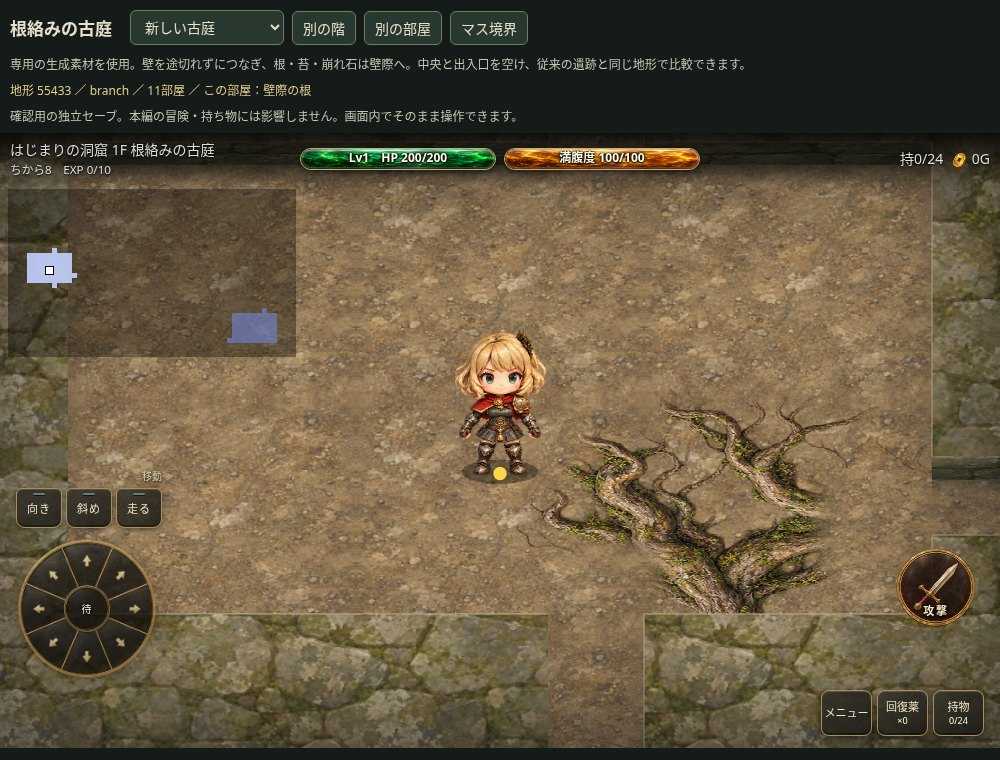
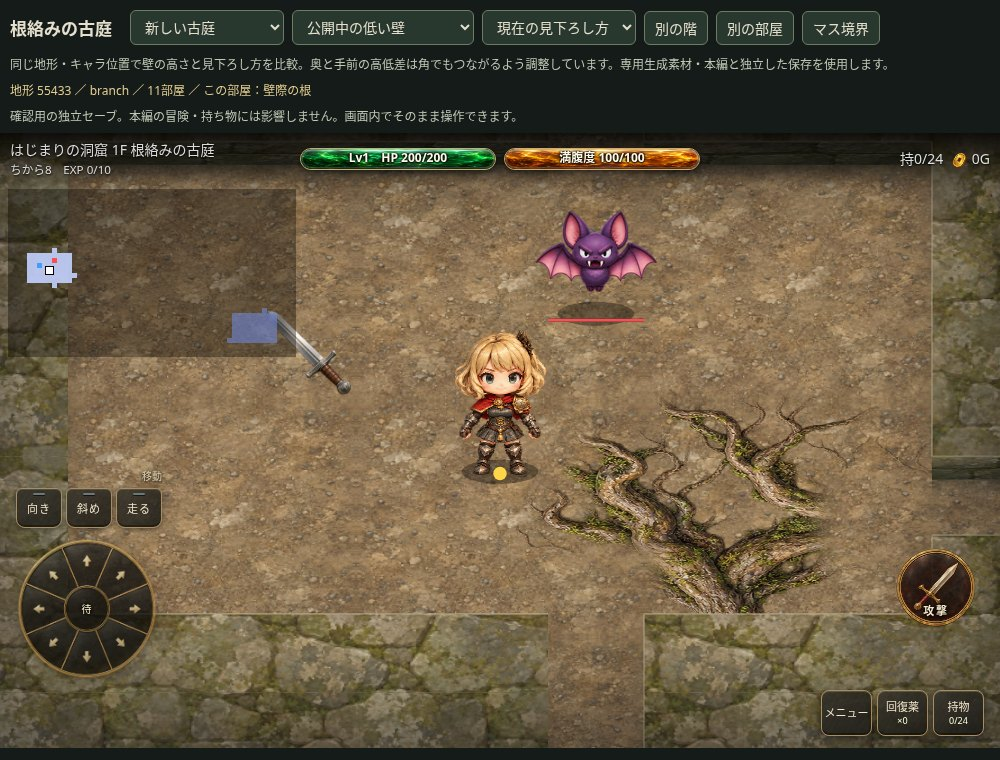
Add wall height and camera comparisons pending official reference review

diff --git a/assets/overgrown-garden.js b/assets/overgrown-garden.js
@@ -2,6 +2,19 @@
 (function(root){
  'use strict';
  const theme=DungeonGenerator.themes.find(t=>t.id==='overgrown-garden');
+ // Published view remains the default; study modes are selected in review only.
+ const view={mode:'low',pitch:.82};
+ const profiles={low:{back:.24,front:.24},tall:{back:.48,front:.48},cutaway:{back:.56,front:.16}};
+ function configureView(patch){
+  if(patch.mode!==undefined){if(!profiles[patch.mode])throw Error('unknown wall view');view.mode=patch.mode;}
+  if(patch.pitch!==undefined){if(![.72,.82,.9].includes(patch.pitch))throw Error('unknown ground projection');view.pitch=patch.pitch;}
+ }
+ function vertexHeight(map,x,y){
+  const p=profiles[view.mode],floor=(xx,yy)=>map[yy]?.[xx]!==undefined&&map[yy][xx]!==0;
+  // Shared world vertices keep the cutaway ramp continuous at corners.
+  return floor(x-1,y-1)||floor(x,y-1)?p.front:p.back;
+ }
+ const verticalProjection=()=>Math.sqrt(1-view.pitch*view.pitch)/Math.sqrt(1-.82*.82);
  const art={ready:false,error:null,images:{},textures:{},promise:null};
  function load(){
   if(art.promise)return art.promise;
@@ -96,11 +109,23 @@
   const atlas=composition(p.room,p,map,rooms,roomGrid,seed),unit=DECAL_UNIT;
   g.drawImage(atlas,(x-p.room.x)*unit,(y-p.room.y)*unit,unit,unit,px,py,size,h);
  }
+ function quad(g,image,sx,sy,sw,sh,points){
+  const [a,b,c,d]=points;
+  g.save();g.beginPath();g.moveTo(...a);g.lineTo(...b);g.lineTo(...c);g.lineTo(...d);g.closePath();g.clip();
+  // The parent polygon clips the tiny overlap, preventing a diagonal hairline.
+  const triangle=(p,q,r,m)=>{
+   const cx=(p[0]+q[0]+r[0])/3,cy=(p[1]+q[1]+r[1])/3;
+   g.save();g.beginPath();for(const [i,v]of [p,q,r].entries()){const dx=v[0]-cx,dy=v[1]-cy,k=.35/Math.max(1,Math.hypot(dx,dy)),xx=v[0]+dx*k,yy=v[1]+dy*k;i?g.lineTo(xx,yy):g.moveTo(xx,yy);}g.closePath();g.clip();
+   g.transform(...m);g.drawImage(image,sx,sy,sw,sh,0,0,1,1);g.restore();
+  };
+  triangle(a,b,d,[b[0]-a[0],b[1]-a[1],d[0]-a[0],d[1]-a[1],a[0],a[1]]);
+  triangle(b,c,d,[c[0]-d[0],c[1]-d[1],c[0]-b[0],c[1]-b[1],b[0]+d[0]-c[0],b[1]+d[1]-c[1]]);
+  g.restore();
+ }
  function wall(g,px,py,size,h,{map,x,y}){
   const f=(xx,yy)=>map[yy]?.[xx]!==undefined&&map[yy][xx]!==0;
-  // One elevation for the entire connected surface. Internal tile joins have
-  // neither a facade nor a border; facades exist only above exposed floor.
-  const rise=size*.24;
+  const rises=[vertexHeight(map,x,y),vertexHeight(map,x+1,y),vertexHeight(map,x+1,y+1),vertexHeight(map,x,y+1)].map(v=>v*size*verticalProjection());
+  const top=[[px,py-rises[0]],[px+size,py-rises[1]],[px+size,py+h-rises[2]],[px,py+h-rises[3]]];
   g.save();
   g.imageSmoothingEnabled=true;
   // Fill the short vertical band under the cap too: it must stay opaque when
@@ -108,17 +133,19 @@
   surface(g,'top',x,y,px,py,size,h,4);
   if(f(x,y+1)){
    const face=texture('face'),part=face.width/4;
-   g.drawImage(face,(x%4)*part,32,part,64,px,py+h-rise,size,rise);
-   const shade=g.createLinearGradient(0,py+h-rise,0,py+h);shade.addColorStop(0,'#18221835');shade.addColorStop(1,'#10180e95');
-   g.fillStyle=shade;g.fillRect(px,py+h-rise,size,rise);
+   const side=[top[3],top[2],[px+size,py+h],[px,py+h]];
+   quad(g,face,(x%4)*part,32,part,64,side);
+   const shade=g.createLinearGradient(0,py+h-Math.max(rises[2],rises[3]),0,py+h);shade.addColorStop(0,'#18221835');shade.addColorStop(1,'#10180e95');
+   g.fillStyle=shade;g.beginPath();g.moveTo(...side[0]);for(const pt of side.slice(1))g.lineTo(...pt);g.closePath();g.fill();
   }
-  surface(g,'top',x,y,px,py-rise,size,h,4);
+  const tile=texture('top'),part=tile.width/4;
+  quad(g,tile,(x%4)*part,(y%4)*part,part,part,top);
   // Restrict edge accents to actual exposed boundaries, never tile seams.
   g.lineWidth=Math.max(1,size*.018);g.strokeStyle='#c4b99890';g.beginPath();
-  if(f(x,y-1)){g.moveTo(px,py-rise);g.lineTo(px+size,py-rise);}
-  if(f(x-1,y)){g.moveTo(px,py-rise);g.lineTo(px,py-rise+h);}
+  if(f(x,y-1)){g.moveTo(...top[0]);g.lineTo(...top[1]);}
+  if(f(x-1,y)){g.moveTo(...top[0]);g.lineTo(...top[3]);}
+  if(f(x,y+1)){g.moveTo(...top[3]);g.lineTo(...top[2]);}
   g.stroke();
-  if(f(x,y+1)){g.fillStyle='#c4b99855';g.fillRect(px,py+h-rise,size,Math.max(1,size*.016));}
   g.restore();return true;
  }
  const original=CaveTerrain.draw;
@@ -127,7 +154,7 @@
   options={...options,x:options.x??0,y:options.y??0};
   if(!CaveTerrain.ready)return false;
   if(!art.ready){if(!art.promise)load().then(()=>root.render?.()).catch(()=>{});return false;}
-  const h=size*CaveTerrain.pitch;
+  const h=size*view.pitch;
   if(key==='wallF'||key==='wallT')return wall(g,px,py,size,h,options);
   let ok=true;
   if(key.startsWith('floor')){
@@ -143,5 +170,5 @@
  };
  // Both the normal floor rotation and review catalog include the garden.
  DungeonGenerator.locations=DungeonGenerator.themes;
- root.OvergrownGarden={theme,plan,cell,art,load,texture};
+ root.OvergrownGarden={theme,plan,cell,art,load,texture,view,profiles,configureView,vertexHeight};
 })(typeof window==='undefined'?globalThis:window);

diff --git a/fushigi-overgrown-garden-v1/index.html b/fushigi-overgrown-garden-v1/index.html
@@ -1,10 +1,10 @@
 <!doctype html>
 <html lang="ja"><head><meta charset="utf-8"><meta name="viewport" content="width=device-width,initial-scale=1"><title>根絡みの古庭 — ロケーション試作</title>
 <style>
-body{margin:0;background:#141b18;color:#e5dfcd;font:14px system-ui,sans-serif}header{padding:10px;display:flex;gap:8px;align-items:center;flex-wrap:wrap}h1{font-size:17px;margin:0 10px 0 0}button,select{font:inherit;color:inherit;background:#29382e;border:1px solid #6d7d65;border-radius:6px;padding:6px 10px}p{margin:0;padding:0 10px 8px;font-size:12px;color:#c0c8b6}iframe{display:block;width:100%;height:calc(100dvh - 145px);min-height:300px;border:0}#status{color:#e1cb91}button:disabled{opacity:.4}
+body{margin:0;background:#141b18;color:#e5dfcd;font:14px system-ui,sans-serif;display:flex;flex-direction:column;height:100dvh}header{padding:10px;display:flex;gap:8px;align-items:center;flex-wrap:wrap;flex-shrink:0}h1{font-size:17px;margin:0 10px 0 0}button,select{font:inherit;color:inherit;background:#29382e;border:1px solid #6d7d65;border-radius:6px;padding:6px 10px}p{margin:0;padding:0 10px 8px;font-size:12px;color:#c0c8b6;flex-shrink:0}iframe{display:block;width:100%;flex:1;min-height:180px;border:0}#status{color:#e1cb91}button:disabled{opacity:.4}
 </style></head><body>
-<header><h1>根絡みの古庭</h1><select id="look" aria-label="景観"><option value="overgrown-garden">新しい古庭</option><option value="ruins">従来の遺跡と比較</option></select><button id="next" disabled>別の階</button><button id="room" disabled>別の部屋</button><button id="grid" disabled>マス境界</button></header>
-<p>専用の生成素材を使用。壁を途切れずにつなぎ、根・苔・崩れ石は壁際へ。中央と出入口を空け、従来の遺跡と同じ地形で比較できます。</p>
+<header><h1>根絡みの古庭</h1><select id="look" aria-label="景観"><option value="overgrown-garden">新しい古庭</option><option value="ruins">従来の遺跡と比較</option></select><select id="height" aria-label="壁の高さ"><option value="low">公開中の低い壁</option><option value="tall">全体を高くする</option><option value="cutaway">奥を高く・手前を低く</option></select><select id="angle" aria-label="見下ろし方"><option value="0.82">現在の見下ろし方</option><option value="0.72">少し横から見る</option><option value="0.9">少し真上から見る</option></select><button id="next" disabled>別の階</button><button id="room" disabled>別の部屋</button><button id="grid" disabled>マス境界</button></header>
+<p>同じ地形・キャラ位置で壁の高さと見下ろし方を比較。奥と手前の高低差は角でもつながるよう調整しています。専用生成素材・本編と独立した保存を使用します。</p>
 <p id="status" role="status">読み込み中…</p><p>確認用の独立セーブ。本編の冒険・持ち物には影響しません。画面内でそのまま操作できます。</p>
 <iframe id="game" title="古庭のプレイ確認"></iframe>
 <script>
@@ -12,6 +12,7 @@ const $=id=>document.getElementById(id),frame=$('game');let seed=55433,roomIndex
 const run=code=>frame.contentWindow.eval(code);
 function status(){const d=run('({style:floorPlan.style,rooms:rooms.length,kind:OvergrownGarden.plan(rooms[window.gardenRoom||0],floorPlan.artSeed).kind})');$('status').textContent=`地形 ${seed} ／ ${d.style} ／ ${d.rooms}部屋 ／ この部屋：${{moss:'苔のたまり',roots:'壁際の根',rubble:'崩れ石'}[d.kind]}`;}
 function apply(){run('floorPlan.theme='+($('look').value==='overgrown-garden'?'OvergrownGarden.theme':"DungeonGenerator.themes.find(t=>t.id==='ruins')")+'; visibilityRevision++;render()');status();}
+function view(){run('OvergrownGarden.configureView('+JSON.stringify({mode:$('height').value,pitch:Number($('angle').value)})+');visibilityRevision++;render()');}
 frame.onload=async()=>{
  if(!frame.srcdoc)return;
  try{
@@ -24,6 +25,7 @@ frame.onload=async()=>{
  }catch(e){$('status').textContent=e.message;}
 };
 $('look').onchange=apply;
+$('height').onchange=view;$('angle').onchange=view;
 $('next').onclick=()=>{seed+=7919;roomIndex=0;run(`window.gardenSeed=${seed};window.gardenRoom=0;newFloor();player.hp=player.maxhp=200;`);apply();};
 $('room').onclick=()=>{roomIndex=(roomIndex+1)%run('rooms.length');run(`(()=>{window.gardenRoom=${roomIndex};const r=rooms[${roomIndex}];player.x=player.vx=r.cx;player.y=player.vy=r.cy;updateVis();render();})()`);status();};
 $('grid').onclick=()=>run('window.gardenGrid=!window.gardenGrid;render()');

diff --git a/index.html b/index.html
@@ -2296,7 +2296,7 @@ const cv = $('c'), ctx = cv.getContext('2d');
 let raf = 0, lastT = 0;
 const tmp = mkCanvas(64, 64);
 const isLand = () => innerWidth > innerHeight;
-const tilePitchY = () => scene === 'dungeon' ? TS * .82 : TS;
+const tilePitchY = () => scene === 'dungeon' ? TS * (floorPlan?.theme?.id==='overgrown-garden'&&typeof OvergrownGarden!=='undefined'?OvergrownGarden.view.pitch:.82) : TS;
 const focusY = () => innerHeight * (isLand() ? 0.5 : 0.4);   // 自キャラの縦位置（縦持ちは下のボタンを避けて上寄り）
 function resize() {
   DPR = window.devicePixelRatio || 1;

diff --git a/fushigi-overgrown-garden-v1/check_height_study.py b/fushigi-overgrown-garden-v1/check_height_study.py
@@ -1,0 +1,78 @@
+"""Reproducible wall-height study. Official reference access is still pending."""
+import json
+from pathlib import Path
+from playwright.sync_api import sync_playwright
+
+OUT = Path(__file__).resolve().parent
+with sync_playwright() as p:
+    browser = p.chromium.launch(executable_path='/usr/bin/chromium')
+    page = browser.new_page(viewport={'width': 1000, 'height': 780})
+    errors = []
+    page.on('pageerror', lambda e: errors.append(str(e)))
+    page.goto('http://127.0.0.1:8000/fushigi-overgrown-garden-v1/')
+    page.wait_for_function("!document.getElementById('next').disabled", timeout=45000)
+    frame = page.frames[1]
+    frame.evaluate('''() => {
+      ShopSystem.reset();AllySystem.reset();ShopSecurity.reset?.();
+      MW=15;MH=11;map=Array.from({length:MH},()=>Array(MW).fill(WALL));
+      rooms=[{x:4,y:3,w:7,h:5,cx:7,cy:5,role:'ordinary',shape:'rect'}];
+      for(let y=3;y<8;y++)for(let x=4;x<11;x++)map[y][x]=FLOOR;
+      for(let x=11;x<14;x++)map[5][x]=FLOOR;
+      floorPlan={seed:55433,artSeed:8721,theme:OvergrownGarden.theme,map,rooms,style:'study'};
+      floorShop=null;enemies=[];floorItems=[];traps=[];fx.length=0;vfx.length=0;floorLight=false;
+      buildRoomGrid();player.x=player.vx=7;player.y=player.vy=5;player.face=[0,1];player.action=null;player.swing=0;
+      seen=map.map(row=>row.map(()=>true));fadeT=-1e9;updateVis();render();
+    }''')
+    before = frame.evaluate('JSON.stringify({map,rooms,roomGrid,player,enemies,floorItems,traps})')
+    page.wait_for_timeout(1000)
+    captures = []
+    for mode in ['low', 'tall', 'cutaway']:
+        page.select_option('#height', mode)
+        page.select_option('#angle', '0.82')
+        page.wait_for_timeout(100)
+        frame.locator('body').screenshot(path=str(OUT / f'study-{mode}.jpg'), type='jpeg', quality=90)
+        captures.append({'mode': mode, 'pitch': .82, 'file': f'study-{mode}.jpg'})
+    for pitch in [.72, .82, .9]:
+        page.select_option('#angle', str(pitch))
+        page.wait_for_timeout(100)
+        frame.locator('body').screenshot(path=str(OUT / f'study-angle-{round(pitch*100):03}.jpg'), type='jpeg', quality=90)
+    # Exercise every combination of nearby floor/wall tiles in every study view.
+    frame.evaluate('''() => {
+      const c=document.createElement('canvas');c.width=210;c.height=210;const g=c.getContext('2d');
+      const offsets=[[-1,-1],[0,-1],[1,-1],[-1,0],[1,0],[-1,1],[0,1],[1,1]],size=32;
+      for(const mode of ['low','tall','cutaway'])for(const pitch of [.72,.82,.9]){
+        OvergrownGarden.configureView({mode,pitch});
+        for(let mask=0;mask<256;mask++){
+          const m=Array.from({length:5},()=>Array(5).fill(0));offsets.forEach(([x,y],i)=>m[2+y][2+x]=(mask>>i)&1);
+          g.clearRect(0,0,210,210);
+          for(let y=0;y<5;y++)for(let x=0;x<5;x++)CaveTerrain.draw(g,m[y][x]?'floor0':'wallT',x*size,y*size*pitch,size,{map:m,x,y,seed:0,theme:OvergrownGarden.theme});
+          const d=g.getImageData(size,Math.ceil(size*pitch),size*3,Math.floor(size*pitch*3)).data;
+          for(let i=3;i<d.length;i+=4)if(d[i]!==255)throw Error(`gap ${mode}/${pitch}/${mask}`);
+        }
+      }
+    }''')
+    assert before == frame.evaluate('JSON.stringify({map,rooms,roomGrid,player,enemies,floorItems,traps})'), 'view changed gameplay'
+    page.select_option('#height', 'cutaway')
+    page.select_option('#angle', '0.82')
+    for name, x, y in [('back', 7, 3), ('front', 7, 7), ('door', 10, 5)]:
+        frame.evaluate(f'player.x=player.vx={x};player.y=player.vy={y};updateVis();render()')
+        frame.locator('body').screenshot(path=str(OUT / f'study-near-{name}.jpg'), type='jpeg', quality=90)
+    page.set_viewport_size({'width': 390, 'height': 844})
+    frame.locator('body').screenshot(path=str(OUT / 'study-cutaway-portrait.jpg'), type='jpeg', quality=90)
+    assert not errors, errors
+    # A browser-rendered comparison sheet preserves the actual game captures.
+    page.set_viewport_size({'width': 1500, 'height': 650})
+    for name, files in [
+        ('height-comparison', [('公開中の低い壁', 'study-low.jpg'), ('全体を高くする', 'study-tall.jpg'), ('奥を高く・手前を低く', 'study-cutaway.jpg')]),
+        ('angle-comparison', [('少し横から', 'study-angle-072.jpg'), ('現在の見下ろし方', 'study-angle-082.jpg'), ('少し真上から', 'study-angle-090.jpg')]),
+    ]:
+        page.goto('http://127.0.0.1:8000/fushigi-overgrown-garden-v1/')
+        page.set_content('<html lang="ja"><style>body{margin:0;background:#18201b;color:#eee;font:20px sans-serif}main{display:flex}figure{margin:10px;width:480px}img{width:480px;display:block}figcaption{padding:10px}</style><main>'+''.join(f'<figure><figcaption>{label}</figcaption><img src="http://127.0.0.1:8000/fushigi-overgrown-garden-v1/{file}"></figure>' for label,file in files)+'</main></html>')
+        page.wait_for_function('Array.from(document.images).every(i=>i.complete&&i.naturalWidth>0)')
+        page.locator('main').screenshot(path=str(OUT / f'{name}.jpg'), type='jpeg', quality=90)
+    result = {'status': 'passed', 'views': 9, 'topologiesPerView': 256, 'gapChecks': 2304,
+              'gameplayUnchanged': True, 'nearWallAndDoor': True, 'portrait': True,
+              'officialReferenceReview': 'pending: outbound HTTP policy blocks official sources', 'captures': captures}
+    (OUT / 'height-study-validation.json').write_text(json.dumps(result, ensure_ascii=False, indent=2)+'\n')
+    print(json.dumps(result, ensure_ascii=False))
+    browser.close()

diff --git a/docs/HANDOVER.md b/docs/HANDOVER.md
@@ -4,6 +4,8 @@
 
 ## 1. 結論（いまの状態）
 
+- **古庭の壁高・見下ろし比較（2026-10-23、作業ブランチ）**：ユーザーの「壁が低い」「シレン6をしっかり参考に」に対応し、同じ部屋・足元で壁高3案と床投影3案を比較する準備。共有頂点の高さで角の段差を防ぎ、手前を低くする案も追加。通常起動の既定は公開済み0.24マス高・ピッチ0.82。比較は保存せず、他ロケーションも維持。9設定×256近傍地形とゲーム状態不変・縦横・壁際を検証。**公式記事の今回の直接確認は未完了**：任天堂／スパイク公式への取得がプロキシ403。必要ドメインの環境設定ドラフトは保存済みで、適用後に公式画面の観察を続ける。本家を測定した数値とは扱わない。詳細と比較画像は `fushigi-overgrown-garden-v1/WALL_HEIGHT_STUDY.md`。この比較作業のmain反映・公開は未実施。
+
 - **追加ロケーション「根絡みの古庭」（2026-10-23、反映・公開許可済み）**：ユーザーの「ロケーション追加で試す」「手描きコードの部分は生成」「壁のガタつきを直す」に対応。`assets/overgrown-garden.js` に分離。専用生成原画2枚（床・壁上面・側面の材質シート、根2種・苔・崩れ石の透過シート）を使用し、手描きコードによる根・苔・石の仮絵を廃止。部屋ごとの主題と寄せる壁、中央・入口・階段・店舗を空ける配置は維持。壁は全体0.24マス高で接続し、内部境界には側面・縁を描かない。生成材質を使い、旧画像の欠け・段差を除去。階段と画面外の天井は既存遺跡素材を再利用。`fushigi-overgrown-garden-v1/` に独立セーブ比較画面・原画・プロンプト・ハッシュ・確認画像。壁256接続／材質端・部屋配置100シード・実ブラウザ3主題／縦横／保存／壁破壊を確認。ユーザーの「反映と公開」により、本編の6番目のロケーションとして通常巡回に追加（6階・12階…）。通常6階での自動出現と再読込による途中復帰も確認。最新mainの描画順・移動補間・キー長押し修正を取り込み済み。公開処理の結果はGitHub Actionsのpages build and deploymentで確認する。
 
 - **保存の壺（2026-10-23）**：持ち物に「壺」を追加（`ITEMS.savepot`、分類「壺」、2階から出現・店にも並ぶ）。容量は拾う・店に並ぶとき2〜6でランダム（`POT_CAP`）、名前は「保存の壺（4）」。持ち物欄で「入れる／出す／置く／投げて割る」。入れる・出すは1ターン（町ではターンなし）。**入れられる物**：壺以外の持ち物すべて（装備中も可＝装備は外れる）、足元の物（一覧に「足元」印）、店の未精算の物（精算か持ち出しまで未精算のまま。壺ごと店の中に置くと返品扱い、店の外へ持ち出すと盗難。`ShopSystem.owns`／`members`）。**投げる**：壺は割れて消え、中身は着地点の近くの空き床に散らばる（置けない分は失われる。店の商品の壺は壺だけ請求。`breakPot`）。**売値**：壺単体＋中身それぞれの売値の合計（`sellFull`。町の店・ダンジョンの店とも。ダンジョンの店では中身にも商品の札が付き、買い戻しは別々に請求）。中身は倉庫・セーブ・途中保存・床に置いても保たれる（保存形式 `savepot:容量~中身,中身`、壺の入れ子は不可）。壺ごとに別の行（まとめ表示しない）。`tests/test_pot.js`（計25本）。絵は `assets/icon_pot.png`（無い間は文字「壺」）。**次：合成の壺（ユーザー仕様）**：同種の装備のみ。**合成の壺は割らないと中身を出せない**（出す操作は無し。投げて割る＝保存の壺と同じ散らばり方が出口）。印を1個ごとに持てる形への拡張が要る。**実機の操作感は未確認**（壺を選んだ後の一覧、1個ずつ入れる手間）。
@@ -101,6 +103,8 @@ node tests/harness.js index.html tests/test_mvp.js      # ALL OK が出れば成
 - 数値は本家の値の縮小版（仮説）。遊びながら調整する。
 
 ## 5. 次にやること（提案＝仮説。優先順）
+
+- 壁高の比較：クラウド環境の接続許可が適用されたら任天堂・スパイク公式画面で足元・壁上面・側面・手前遮蔽を観察し、`WALL_HEIGHT_STUDY.md` へ根拠を追記してから採用案を決める。ほかのロケーションへの展開はその後。
 
 - 追加ロケーションのデザイン確認：`fushigi-overgrown-garden-v1/index.html` で根・苔・崩れ石の偏り、中央／入口の空き、壁の高さ・縁を縦横で比較する。配置ロジック100シード、実ブラウザ3主題・保存復元・本編セーブ分離・壁破壊後の描画を検証。専用生成原画と壁接続の修正版を見て、密度調整を判断する。通常巡回への追加はユーザー承認済み。
 

diff --git a/fushigi-overgrown-garden-v1/WALL_HEIGHT_STUDY.md b/fushigi-overgrown-garden-v1/WALL_HEIGHT_STUDY.md
@@ -1,0 +1,45 @@
+# 壁の高さ・見下ろし方の比較（2026-10-23）
+
+ユーザーの「シレン6をしっかり参考に」に向けた比較準備。**公式画面の今回の直接確認は未完了**。下記2ページは、このクラウド環境のHTTPプロキシでCONNECT 403になった。過去の制作資料にある観察記録と、今回の直接観察は区別する。
+
+- 任天堂の公式ゲーム紹介：https://www.nintendo.com/jp/topics/article/5ec539ee-1e2c-47cd-abd2-e8e6443d9f8f
+- スパイク・チュンソフト公式紹介：https://www.spike-chunsoft.co.jp/news/27997/
+- 関連する過去の記録：`fushigi-locations-v1/README.md`、`fushigi-wall-relief-v1/README.md`
+
+必要な接続先 `www.nintendo.com` / `topics-cdn.nintendo.co.jp` / `www.spike-chunsoft.co.jp` を環境設定ドラフトへ追加した。保存したドラフトだけでは実行中の接続制限は変わらない。適用後、記事内の実画面を取得して観察を追記する。今回の値をシレン6のカメラ角・壁高・内部描画方式から測定した値と扱わない。
+
+## 比較できるもの
+
+確認ページの「壁の高さ」と「見下ろし方」は古庭だけに適用される。通常起動時の既定は公開版と同じ低い壁・縦ピッチ0.82。変更は保存せず、ほかの5ロケーションのカメラにも適用しない。
+
+| 案 | 奥の壁 | 手前の壁 | 目的 |
+|---|---:|---:|---|
+| 公開中の低い壁 | 0.24 | 0.24 | 現状との比較 |
+| 全体を高くする | 0.48 | 0.48 | 高さだけを変えた場合 |
+| 奥を高く・手前を低く | 0.56 | 0.16 | 囲まれ感と手前の読みやすさの比較 |
+
+値は基準ピッチ0.82での画面上の立ち上がり／タイル幅。床の縦ピッチは0.72／0.82／0.90。仮に直交投影と考えると `pitch = sin(俯角)`、高さ方向は `cos(俯角)` なので、角度の切替時は立ち上がりも同じモデルで補正し、物理的な壁高が変わって見える混同を避ける。これらの俯角は本家の測定値ではない。キャラ画像の縦横比は維持し、足元・床・道具・VFX・視界には同じピッチを渡す。
+
+壁の角はワールド座標の共有頂点で高さを決め、隣の壁と同じ辺を使う。床の北にある奥側は高く、床の南にある手前側は低くし、内側へ傾斜でつなぐ。上面と側面は生成材質を四角形へ写像する。マスごとに別の高さを切り替えて段差を作る方式は採らない。
+
+## 本家の画面で確認する点（未実施）
+
+- 床の横1マスと縦1マスの見かけの比。数種類の地形で同じか。
+- キャラの足元を基準にした壁の接地位置、上面の奥行き、見えている側面の高さ。
+- 奥・手前・左右の壁の違い。低くする／隠す／透過する挙動は静止画と動画を区別して確認する。
+- 入口、内角、外角、1マス通路での連続性。キャラが手前の壁に近づいたときの見え方。
+
+公開画像だけで内部実装や正確なカメラ角を断定せず、観察できた結果をFushigiの2D描画へ取り込む。公式画像は参照だけに使い、ゲーム素材へ流用しない。
+
+## 再現・検証
+
+HTTP配信したチェックアウトで `python3 fushigi-overgrown-garden-v1/check_height_study.py`。同じ7×5の部屋、キャラ、足元、アイテム・敵なしの条件で比較画像を生成する。
+
+- [高さ3案](height-comparison.jpg)
+- [見下ろし方3案](angle-comparison.jpg)
+- [奥の壁に近づく](study-near-back.jpg)
+- [手前の壁に近づく](study-near-front.jpg)
+- [入口に近づく](study-near-door.jpg)
+- [縦画面](study-cutaway-portrait.jpg)
+
+9設定×256近傍地形＝2,304件で不透明な描画の連結を確認し、表示の切替でマップ・キャラ・内容物を変更しないことも確認する。`height-study-validation.json` はこの検証の結果。視覚的な適切さやシレン6との一致を、この自動チェックだけで保証するものではない。

diff --git a/fushigi-overgrown-garden-v1/README.md b/fushigi-overgrown-garden-v1/README.md
@@ -1,5 +1,7 @@
 # 根絡みの古庭：追加ロケーションの試作
 
+壁高・見下ろし方の比較は [WALL_HEIGHT_STUDY.md](WALL_HEIGHT_STUDY.md)。公式画面の今回の直接確認は接続制限で未完了。比較用の数値はFushigiの候補値で、通常起動時の既定は公開版と同じ低い壁。
+
 `index.html` が確認画面。リポジトリを HTTP 配信してこのフォルダを開く。
 本編と同じ地形・操作・キャラを使い、同じ階で「新しい古庭」と「従来の遺跡」を切り替えられる。「別の部屋」「別の階」「マス境界」で配置と判定を確認する。
 
